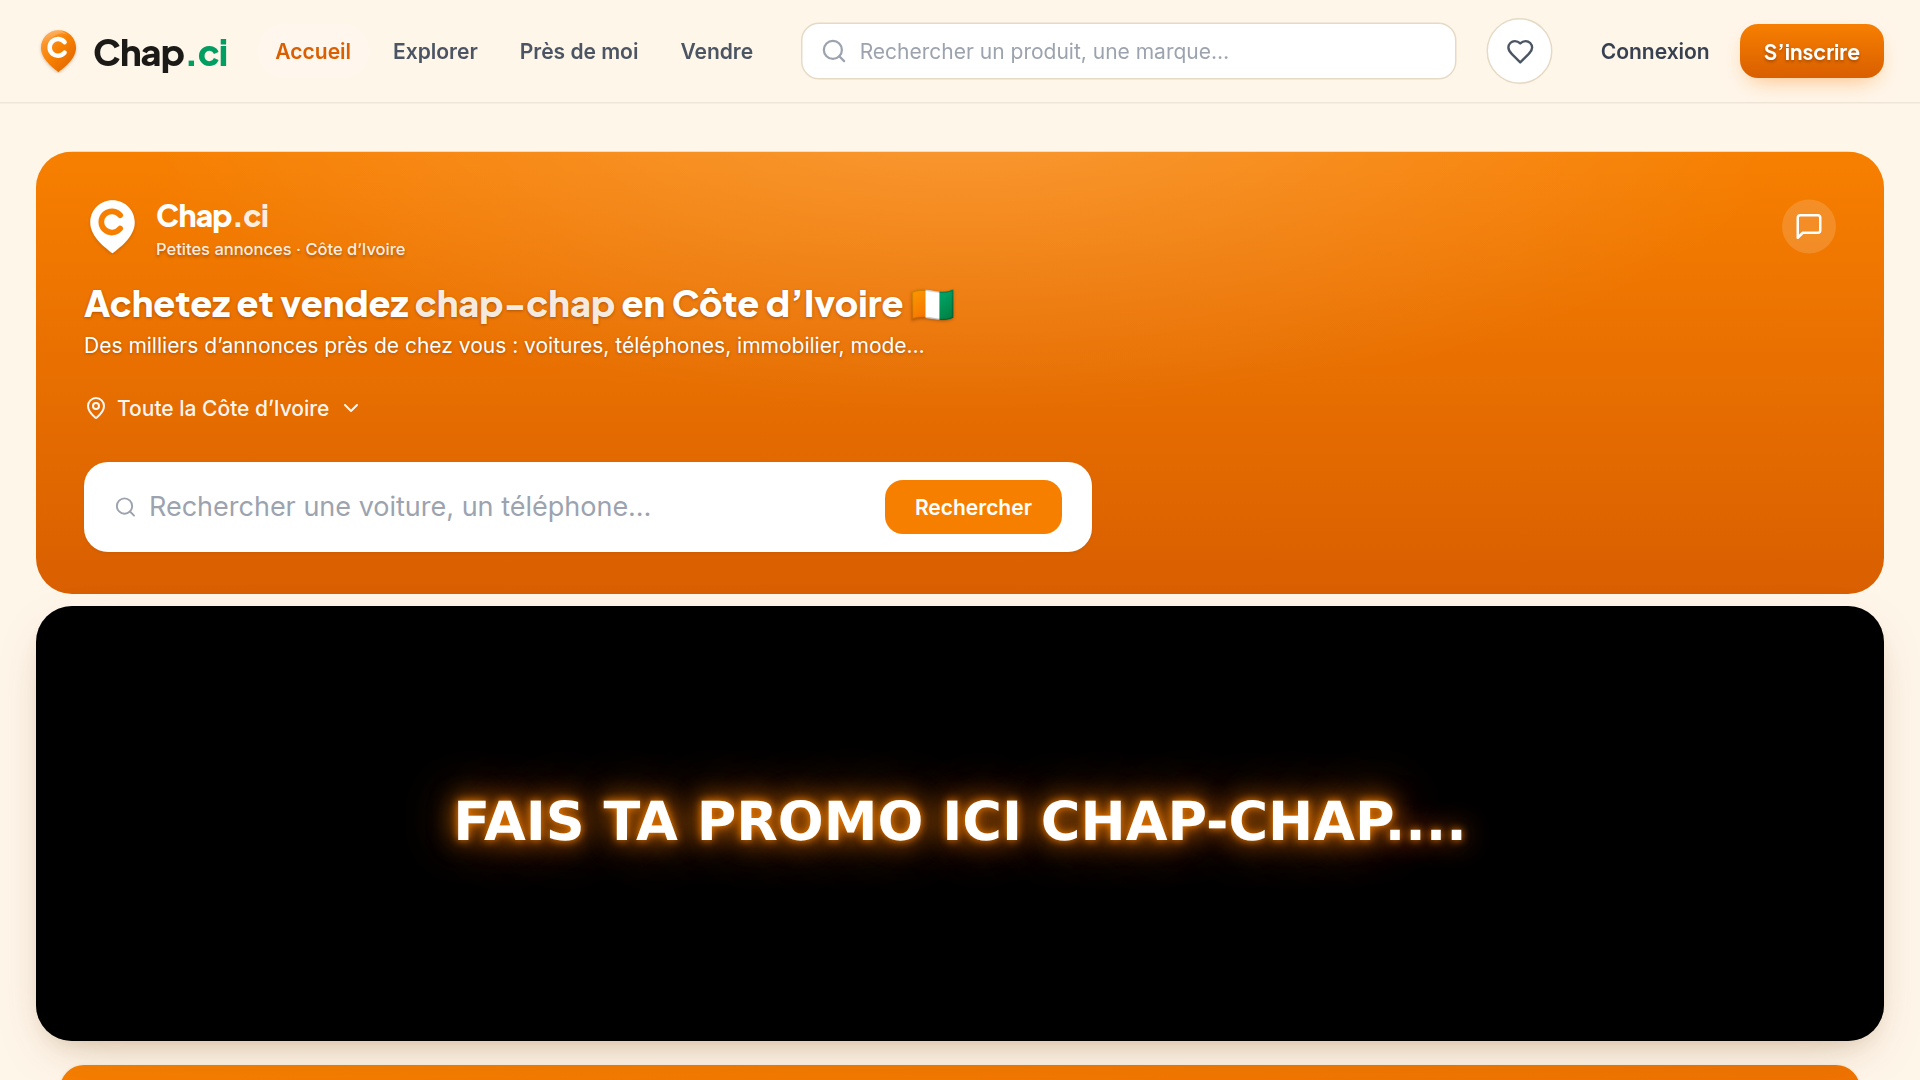
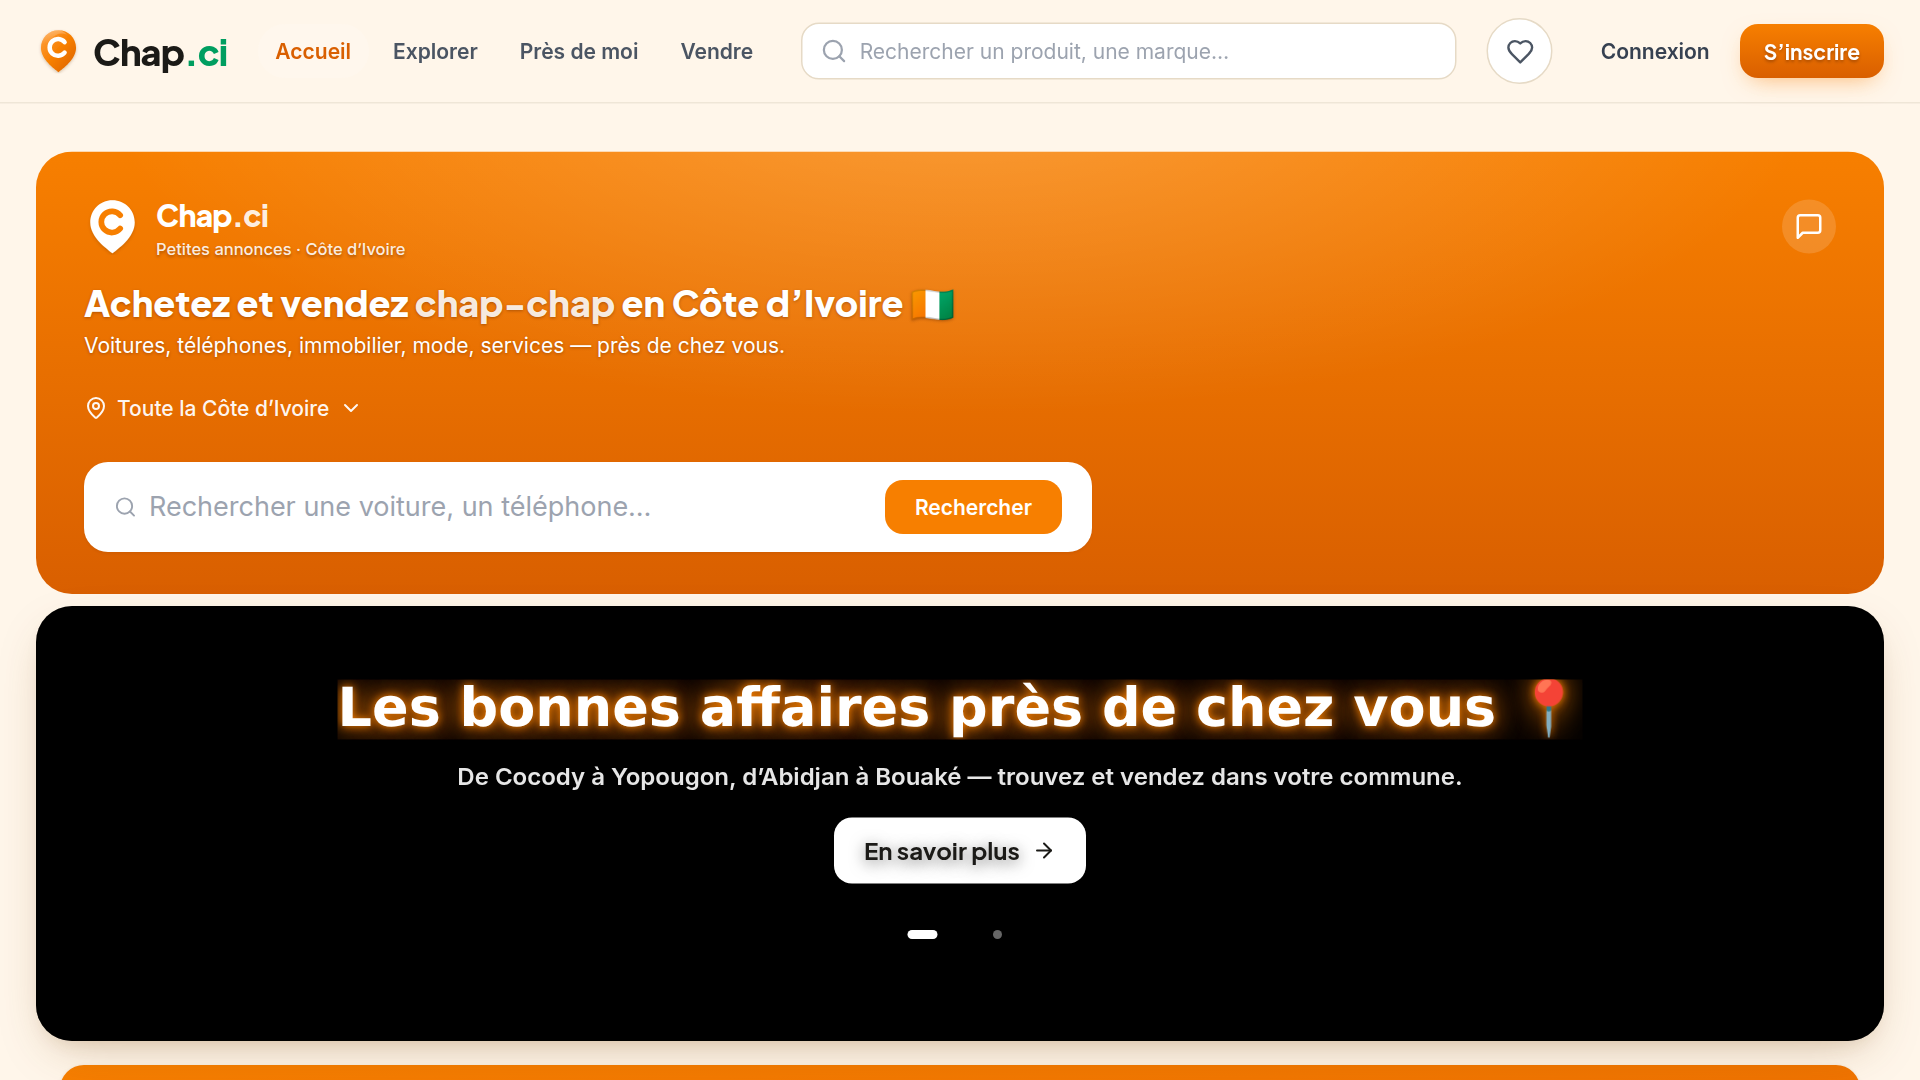
site: ne plus promettre « des milliers » + 12 captures regenerees
Le site annoncait « Des milliers d'annonces pres de chez vous » avec 3 annonces
au catalogue. La phrase figurait sur les captures destinees a l'examinateur
Google. Deux autres surfaces promettaient « des milliers d'acheteurs », dont
l'encart qui VEND de la publicite a 2 000 FCFA la semaine — le site recoit 89
visiteurs par mois. Promettre une audience chiffree a un annonceur qui paie
n'est pas une maladresse de redaction.

- Home.tsx : le sous-titre enumere les categories au lieu de compter.
- PromoBanner.tsx : l'encart publicitaire decrit l'EMPLACEMENT (tete d'accueil
  et de recherche) au lieu d'une audience, avec un commentaire qui interdit d'y
  remettre un chiffre.
- seo.php : meme correction sur les pages d'atterrissage.

Captures : les 12 fichiers accueil / annonce / explorer / vendeur regeneres sur
la version corrigee, en telephone (1080x1920), tablette7 et tablette10
(1920x1080). 05-aide inchangee. Elles montrent les vraies annonces avec leurs
vraies photos, ce qui verifie au passage le correctif d'affichage.

Claude-Session: https://claude.ai/code/session_016afBC3axiNMzY6uoJrGgLp

Changed region(s): [[0.1562, 0.6111, 0.8438, 0.825], [0.0312, 0.3056, 0.4688, 0.3361], [0.4688, 0.8556, 0.5, 0.8861]]

diff --git a/src/components/PromoBanner.tsx b/src/components/PromoBanner.tsx
@@ -223,8 +223,12 @@ export function PromoBanner() {
               Votre publicité ici 🧡
             </h2>
             <p className="max-w-md text-sm text-white/70 md:text-base">
-              Affichez votre marque, votre boutique ou votre annonce devant des milliers
-              d’acheteurs — dès {formatFCFA(2000)} la semaine, payable par Mobile Money.
+              {/* Ne JAMAIS chiffrer l'audience ici : cet encart vend un espace payant.
+                  Annoncer « des milliers d'acheteurs » à un annonceur qui paie
+                  2 000 FCFA la semaine serait une promesse invérifiable — et fausse
+                  aujourd'hui. On décrit l'emplacement, pas une audience. */}
+              Affichez votre marque, votre boutique ou votre annonce en tête de l’accueil
+              et des recherches — dès {formatFCFA(2000)} la semaine, payable par Mobile Money.
             </p>
             <div className="mt-2 flex flex-wrap items-center justify-center gap-4">
               <Link

diff --git a/src/pages/Home.tsx b/src/pages/Home.tsx
@@ -168,7 +168,7 @@ export function Home() {
             Achetez et vendez <span className="text-white/90">chap-chap</span> en Côte d’Ivoire 🇨🇮
           </h1>
           <p className="mt-1 hidden text-sm text-white txt-legible md:block">
-            Des milliers d’annonces près de chez vous : voitures, téléphones, immobilier, mode…
+            Voitures, téléphones, immobilier, mode, services — près de chez vous.
           </p>
           {/* Mobile : accroche courte et punchy (le h1 mobile reste le sr-only ci-dessus) */}
           <p className="font-display text-[17px] font-extrabold leading-tight txt-legible md:hidden">

diff --git a/web/seo.php b/web/seo.php
@@ -315,8 +315,8 @@ function render_sell_page(string $site, string $upub, ?PDO $pdo, string $catSlug
   echo "<header>Chap<span class=\"ci\">.ci</span></header>\n";
   echo "<h1>" . h($h1) . " 🇨🇮</h1>\n";
   echo "<p class=\"lead\">Vous avez " . h($sell) . " à vendre " . h($place) . " ? Sur <strong>Chap.ci</strong>, "
-     . "publier une annonce est <strong>100 % gratuit</strong> et prend moins de 2 minutes. Touchez des milliers "
-     . "d'acheteurs " . ($cityName !== '' ? 'à ' . h($cityName) . ' et partout en Côte d’Ivoire' : 'partout en Côte d’Ivoire') . ".</p>\n";
+     . "publier une annonce est <strong>100 % gratuit</strong> et prend moins de 2 minutes. Vos acheteurs "
+     . "vous trouvent " . ($cityName !== '' ? 'à ' . h($cityName) . ' et partout en Côte d’Ivoire' : 'partout en Côte d’Ivoire') . ".</p>\n";
   echo "<a class=\"cta\" href=\"" . h($publish) . "\">➕ Publier une annonce gratuitement</a>\n";
 
   echo "<h2>Pourquoi vendre sur Chap.ci ?</h2>\n<ul class=\"why\">\n"

diff --git a/store/BUILD-v1.2.md b/store/BUILD-v1.2.md
@@ -16,7 +16,17 @@ Deux conditions sur quatre sont remplies, chacune suffisante à elle seule :
 - **(b) exigence Play Store** — la page publique de suppression de compte, que Google
   réclame et dont un examinateur vérifie la présence **dans l'application**.
 
-**13 commits** touchent l'application depuis la v1.1.
+**14 commits** touchent l'application depuis la v1.1.
+
+### Une correction ajoutée en cours de préparation
+
+Le site annonçait **« Des milliers d'annonces près de chez vous »** — avec **3 annonces**
+au catalogue. La phrase apparaissait telle quelle sur les captures destinées à Google.
+Deux autres surfaces disaient « touchez des milliers d'acheteurs », dont **l'encart qui
+vend de la publicité à 2 000 FCFA la semaine** : promettre des milliers d'acheteurs à un
+annonceur qui paie, quand le site reçoit 89 visiteurs par mois, n'est pas une maladresse
+de rédaction. Les trois formulations ont été remplacées par des phrases qui décrivent
+l'offre sans chiffrer l'audience.
 
 ## Numéros à saisir AVANT de lancer le build
 
@@ -66,20 +76,18 @@ Textes et boutons plus lisibles, notamment sur les petits écrans.
 
 Le poids attendu de l'AAB est donc bien dans la fourchette 6–7 Mo.
 
-## Captures à remplacer sur la fiche Play
+## Captures à remplacer sur la fiche Play — DÉJÀ REFAITES
 
-Quatre écrans sur cinq ont changé (catégorie Santé, correctifs de l'Atelier) :
+Les 12 captures concernées ont été régénérées le 27/07 sur la version corrigée, dans
+`store/captures/` : `01-accueil`, `02-annonce`, `03-explorer` et `04-vendeur`, en
+`telephone-*` (1080×1920), `tablette7-*` et `tablette10-*` (1920×1080).
+`05-aide` est inchangée et n'a pas été touchée.
 
-| Écran | À refaire ? |
-|---|---|
-| accueil | **oui** — la grille de catégories a changé |
-| explorer | **oui** — idem |
-| annonce | **oui** — ListingDetail retouché |
-| vendeur | **oui** — Profile retouché |
-| aide | non — inchangée |
+**Il n'y a donc qu'à les téléverser.** Elles montrent les vraies annonces avec leurs
+vraies photos — ce qui, accessoirement, prouve que le correctif d'affichage fonctionne.
 
-À refaire dans les trois formats : `telephone-*` (1080×1920), `tablette7-*` et
-`tablette10-*` (1920×1080). Les fichiers actuels sont dans `store/captures/`.
+C'est en les relisant qu'est apparue la promesse « Des milliers d'annonces » corrigée
+ci-dessus : une capture destinée à un examinateur mérite d'être regardée deux fois.
 
 ## Marche à suivre
 
